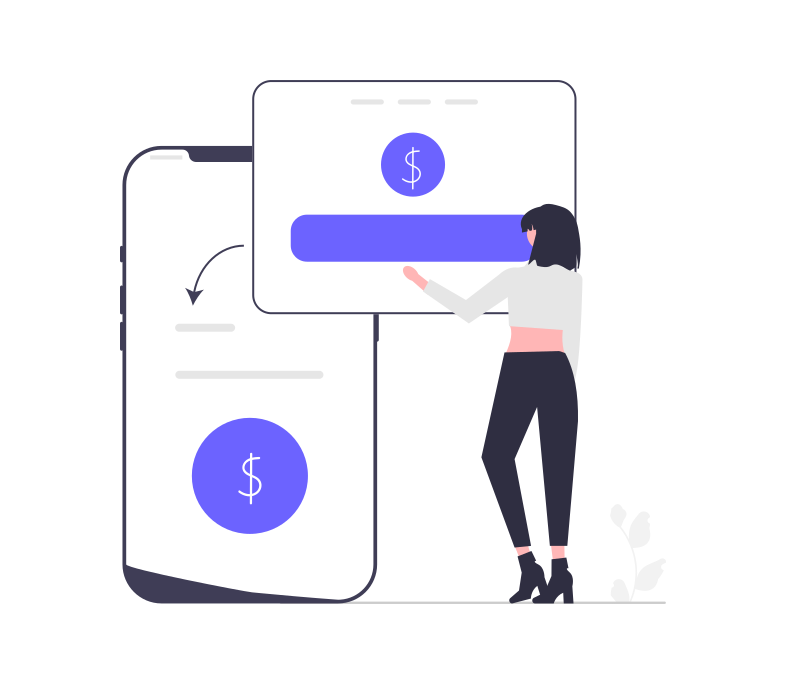
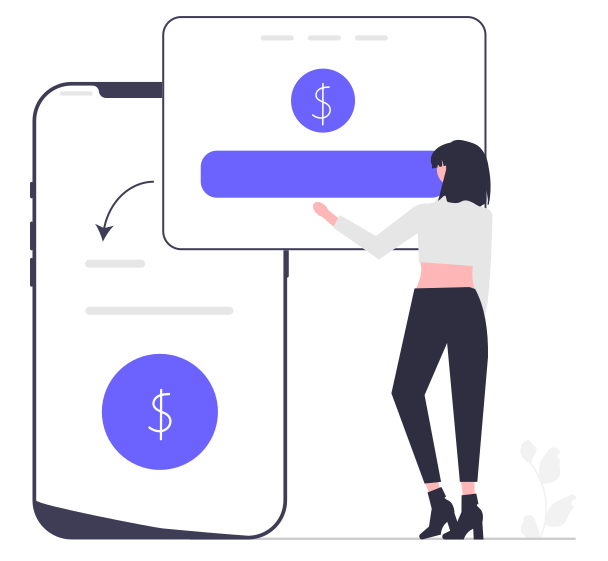
feat: add styles register

Changed region(s): [[0.0312, 0.0303, 0.9375, 0.9697]]

diff --git a/src/components/Register/Form/styles.ts b/src/components/Register/Form/styles.ts
@@ -1,0 +1,48 @@
+import styled from "styled-components";
+
+export const FormStyle = styled.form`
+  display: flex;
+  flex-direction: column;
+
+  .label-username {
+    font-family: "Poppins";
+    font-style: normal;
+    font-weight: 600;
+    font-size: 11px;
+    line-height: 16px;
+    margin-bottom: 0.375rem;
+  }
+
+  .label-password {
+    font-family: "Poppins";
+    font-style: normal;
+    font-weight: 600;
+    font-size: 11px;
+    line-height: 16px;
+    margin-top: 0.375rem;
+    margin-bottom: 0.375rem;
+  }
+
+  input {
+    padding-left: 1.014rem;
+  }
+
+  button {
+    border-radius: 8px;
+    background-color: rgba(108, 99, 255, 1);
+    width: 16.187rem;
+    height: 2.375rem;
+    border: none;
+    margin-top: 1.375rem;
+    font-family: "Poppins";
+    font-style: normal;
+    font-weight: 600;
+    font-size: 12px;
+    line-height: 18px;
+    color: rgba(255, 255, 255, 1);
+  }
+
+  button:hover {
+    background-color: rgb(76, 68, 226);
+  }
+`;

diff --git a/src/pages/Register/styles.ts b/src/pages/Register/styles.ts
@@ -7,38 +7,38 @@ export const Container = styled.div`
   width: 100vw;
   height: 100vh;
 
-  .img-login {
-    width: 39rem;
-    height: 42rem;
+  .img-register {
+    width: 37.875rem;
+    height: 34.75rem;
     margin-left: 8.937rem;
   }
 
   @media (max-width: 1124px) {
-    .img-login {
+    .img-register {
       width: 35rem;
-      height: 38rem;
+      height: 32rem;
       margin-left: 6.937rem;
     }
   }
 
   @media (max-width: 1024px) {
-    .img-login {
+    .img-register {
       width: 30rem;
-      height: 33rem;
+      height: 30rem;
       margin-left: 4.937rem;
     }
   }
 
   @media (max-width: 900px) {
-    .img-login {
+    .img-register {
       width: 25rem;
-      height: 28rem;
+      height: 23rem;
       margin-left: 2.937rem;
     }
   }
 
   @media (max-width: 795px) {
-    .img-login {
+    .img-register {
       display: none;
     }
   }

diff --git a/src/components/Register/Card/styles.ts b/src/components/Register/Card/styles.ts
@@ -1,0 +1,32 @@
+import styled from "styled-components";
+
+export const Container = styled.div`
+  width: 20.625rem;
+  height: 24.812rem;
+  border-radius: 4px;
+  background: rgba(108, 99, 255, 0.58);
+  box-shadow: 0px 4px 4px rgba(0, 0, 0, 0.25);
+  display: flex;
+  flex-direction: column;
+  align-items: center;
+  margin-top: 2.125rem;
+
+  .tittle {
+    font-family: "Poppins";
+    font-style: normal;
+    font-weight: 600;
+    font-size: 28px;
+    line-height: 30px;
+    margin-bottom: 1.25rem;
+    padding-top: 1.687rem;
+  }
+
+  span {
+    font-family: "Poppins";
+    font-style: normal;
+    font-weight: 600;
+    font-size: 10px;
+    line-height: 15px;
+    margin-top: 1.25rem;
+  }
+`;

diff --git a/src/pages/Register/index.tsx b/src/pages/Register/index.tsx
@@ -1,5 +1,23 @@
+import Logo from "../../components/Login/Logo";
+import Card from "../../components/Register/Card";
+import { Container } from "./styles";
+import imgRegister from "../../assets/register.png";
+import "animate.css";
+
 const Register = () => {
-  return <p>Register</p>;
+  return (
+    <Container>
+      <div>
+        <Logo />
+        <Card />
+      </div>
+      <img
+        className="img-register animate__animated animate__pulse"
+        src={imgRegister}
+        alt=""
+      />
+    </Container>
+  );
 };
 
 export default Register;

diff --git a/src/components/Register/Form/index.tsx b/src/components/Register/Form/index.tsx
@@ -1,0 +1,16 @@
+import Input from "../../Login/Input";
+import { FormStyle } from "./styles";
+
+const Form = () => {
+  return (
+    <FormStyle>
+      <label className="label-username">Username</label>
+      <Input id="username" type="text" placeholder="Digite o seu Username" />
+      <label className="label-password">Password</label>
+      <Input id="password" type="password" placeholder="Digite a sua Senha" />
+      <button type="submit">Sign Up</button>
+    </FormStyle>
+  );
+};
+
+export default Form;

diff --git a/src/components/Register/Button/styles.ts b/src/components/Register/Button/styles.ts
@@ -1,0 +1,20 @@
+import styled from "styled-components";
+
+export const Container = styled.button`
+  width: 16.187rem;
+  height: 2.375rem;
+  background-color: rgba(199, 197, 223, 1);
+  border: none;
+  color: rgba(0, 0, 0, 1);
+  font-family: "Poppins";
+  font-style: normal;
+  font-weight: 600;
+  font-size: 12px;
+  line-height: 18px;
+  border-radius: 8px;
+  margin-top: 1.437rem;
+
+  &&:hover {
+    background-color: rgb(169, 168, 183);
+  }
+`;

diff --git a/src/components/Register/Card/index.tsx b/src/components/Register/Card/index.tsx
@@ -1,0 +1,16 @@
+import Button from "../Button";
+import Form from "../Form";
+import { Container } from "./styles";
+
+const Card = () => {
+  return (
+    <Container>
+      <p className="tittle">Register</p>
+      <Form />
+      <span>Já possui uma conta?</span>
+      <Button />
+    </Container>
+  );
+};
+
+export default Card;

diff --git a/src/components/Register/Button/index.tsx b/src/components/Register/Button/index.tsx
@@ -1,0 +1,7 @@
+import { Container } from "./styles";
+
+const Button = () => {
+  return <Container>Sign In</Container>;
+};
+
+export default Button;
